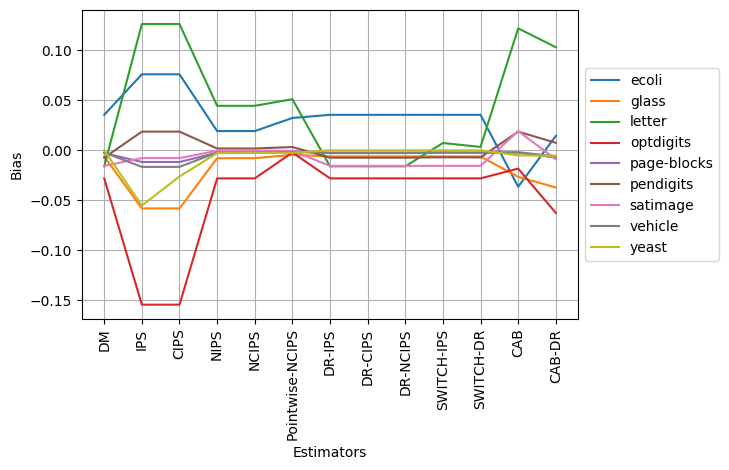
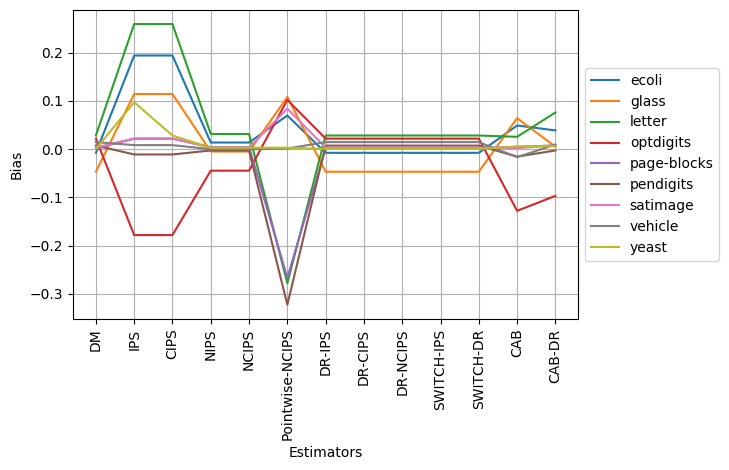
work in progress: #4

diff --git a/data/data_manager.py b/data/data_manager.py
@@ -42,7 +42,8 @@ class Data(object):
 
     def one_hot_vectorise(self):
         num_label = len(np.unique(self.y))
-        self.y_onehot = np.eye(num_label)[self.y]
+        # self.y_onehot = np.eye(num_label)[self.y]
+        self.y_onehot = np.abs(np.eye(num_label)[self.y] - 1)
 
     def add_noise(self):
         """ In addition to this deterministic reward model, we also consider
